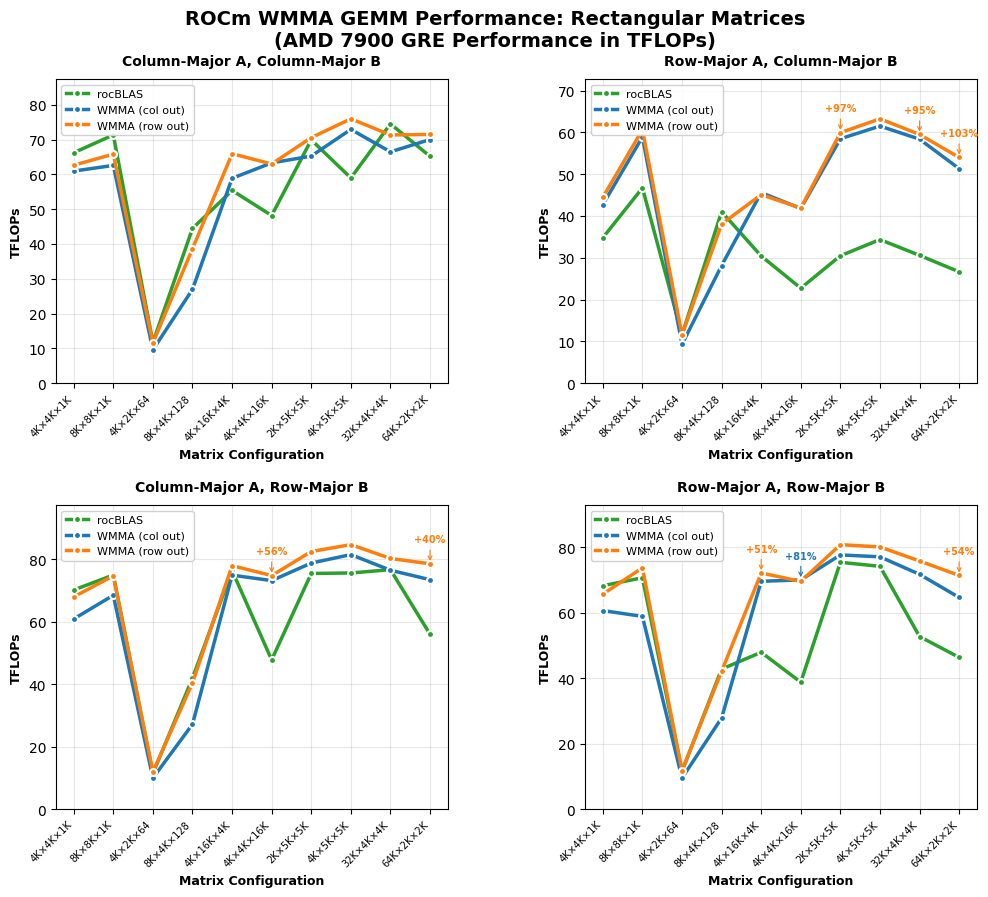
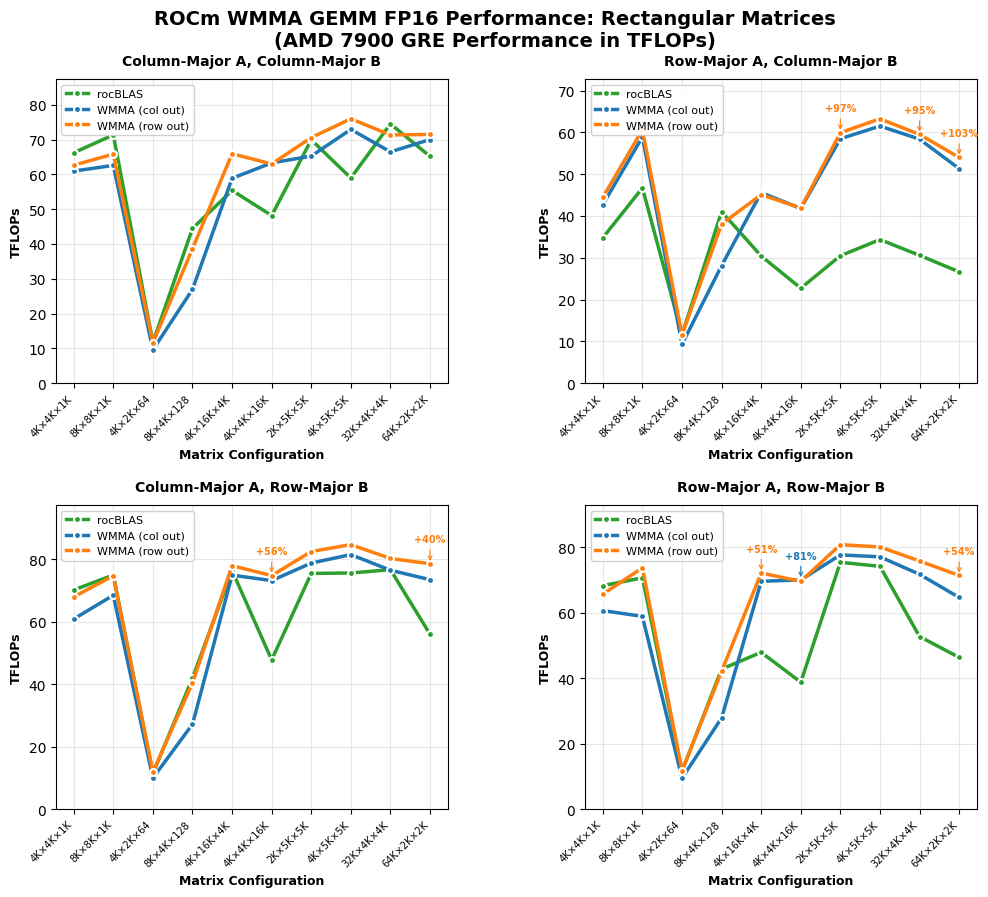
Update readme.md

Changed region(s): [[0.1518, 0.0, 0.8502, 0.0312]]

diff --git a/docs/rectangle.md b/docs/rectangle.md
@@ -2,6 +2,8 @@
 
 Performance measured on AMD Radeon RX 7900 GRE on WSL2 (Ubuntu 24.04.1 LTS, ROCm 6.4.1) in TFLOPs.
 
+## FP16-FP16 Performance Results
+
 | Matrix Size       | Input Layout (A,B) | `rocm_wmma_gemm`<br>(C=col) | `rocBLAS`<br>(C=col) | Ratio<br>(C=col / rocBLAS) | `rocm_wmma_gemm`<br>(C=row) | Ratio<br>(C=row / rocBLAS) |
 |:------------------|:-------------------|---------------------------:|--------------------:|--------------------------:|---------------------------:|--------------------------:|
 | 4096×4096×1024    | col, col           |                      60.94 |               66.21 |                      0.92 |                      62.63 |                      0.95 |

diff --git a/docs/square.md b/docs/square.md
@@ -1,7 +1,8 @@
 # Square Matrix Performance Benchmarks
 
 Performance measured on AMD Radeon RX 7900 GRE on WSL2 (Ubuntu 24.04.1 LTS, ROCm 6.4.1) in TFLOPs.
-Test date: June 26, 2025 (11:49)
+
+## FP16-FP16 Performance Results
 
 | Matrix Size    | Input Layout (A,B) | `rocm_wmma_gemm`<br>(C=col) | `rocBLAS`<br>(C=col) | Ratio<br>(C=col / rocBLAS) | `rocm_wmma_gemm`<br>(C=row) | Ratio<br>(C=row / rocBLAS) |
 |:---------------|:-------------------|---------------------------:|--------------------:|--------------------------:|---------------------------:|--------------------------:|

diff --git a/README.md b/README.md
@@ -11,6 +11,7 @@ This repository aims to:
 - Provide a focused, high-performance GEMM kernel utilizing ROCm WMMA intrinsics.
 - Isolate and refine the fastest GEMM implementation derived from the `hgemm` sample in `rocm_wmma_samples`.
 - Explore and implement support for various matrix data layouts (e.g., row-major, column-major, potentially tiled formats) beyond the format used in the sample.
+- Support `FP16`, `BF16` and `float` accumulators
 - Tune the GEMM kernel for different M, N, K sizes
 
 ## Overview
